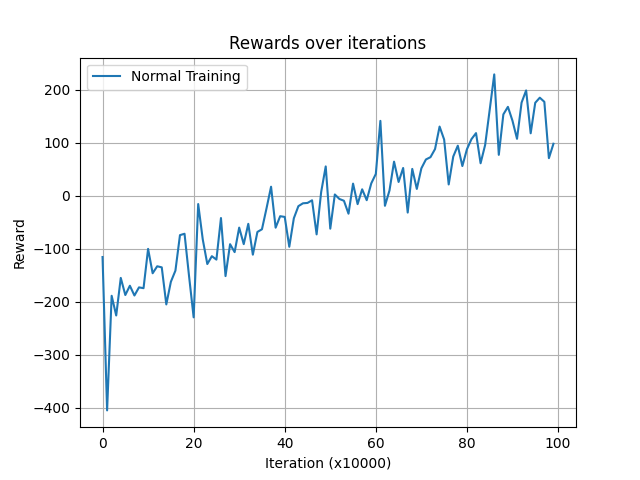
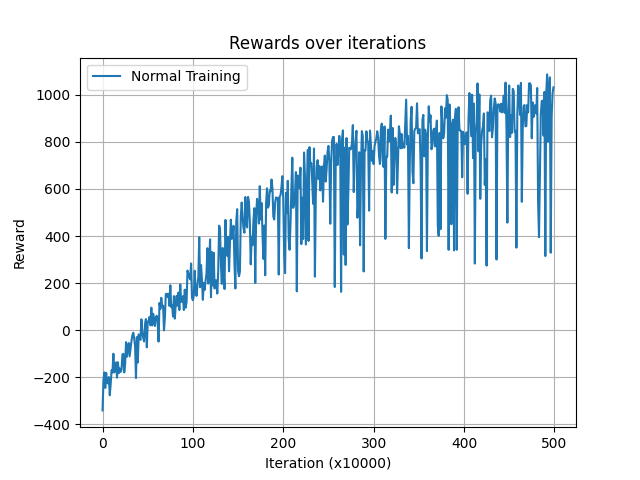
move output to right folder based on env

diff --git a/plots/plot_init_reward.py b/plots/plot_init_reward.py
@@ -1,9 +1,8 @@
 import numpy as np
 import matplotlib.pyplot as plt
-import os
 import re
 
-file = "../base_job_output/ppo_init_1M_out.txt"
+file = "../base_job_output/AntDir/ppo_init_1M_out.txt"
 
 reward_values = []
 
@@ -18,13 +17,70 @@ for line in lines:
             reward = float(match[-1])  # get the last number in the line
             reward_values.append(reward)
 
-# print("All rewards:", reward_values)
+# Convert rewards to numpy array for easier math
+rewards = np.array(reward_values)
 
-# Plot the rewards
-plt.plot(reward_values, label="Normal Training")
-plt.title("Rewards over iterations")
+# Smoothing window
+window = 10
+smoothed = np.convolve(rewards, np.ones(window)/window, mode='valid')
+
+# Calculate standard deviation over the same window
+stds = np.array([
+    np.std(rewards[i:i+window]) if i+window <= len(rewards) else 0
+    for i in range(len(smoothed))
+])
+
+# X-axis values aligned with smoothed curve
+x = np.arange(len(smoothed))
+
+# Plot
+plt.figure(figsize=(10, 6))
+plt.plot(x, smoothed, label="Normal Training (1M)")
+plt.fill_between(x, smoothed - stds, smoothed + stds, alpha=0.2)
+
+# ---------------------------------------------------------------------------------
+
+file = "../base_job_output/AntDir/ppo_init_5M_out.txt"
+
+reward_values = []
+
+with open(file, "r") as f:
+    lines = f.readlines()
+
+# Go through each line and extract the reward if it's a reward line
+for line in lines:
+    if line.startswith("Reward at iter"):
+        match = re.findall(r"[-+]?\d*\.\d+|\d+", line)
+        if match:
+            reward = float(match[-1])  # get the last number in the line
+            reward_values.append(reward)
+
+# Convert rewards to numpy array for easier math
+rewards = np.array(reward_values)
+
+# Smoothing window
+window = 10
+smoothed = np.convolve(rewards, np.ones(window)/window, mode='valid')
+
+# Calculate standard deviation over the same window
+stds = np.array([
+    np.std(rewards[i:i+window]) if i+window <= len(rewards) else 0
+    for i in range(len(smoothed))
+])
+
+# X-axis values aligned with smoothed curve
+x = np.arange(len(smoothed))
+
+# Plot
+# plt.figure(figsize=(10, 6))
+plt.plot(x, smoothed, label="Normal Training (5M)")
+plt.fill_between(x, smoothed - stds, smoothed + stds, alpha=0.2)
+
+# ---------------------------------------------------------------------------------
+
+plt.title("Rewards over Iterations")
 plt.xlabel("Iteration (x10000)")
 plt.ylabel("Reward")
 plt.grid()
 plt.legend()
-plt.savefig('../images/init_rewards.png')
+plt.savefig("../images/init_rewards_smooth.png")
